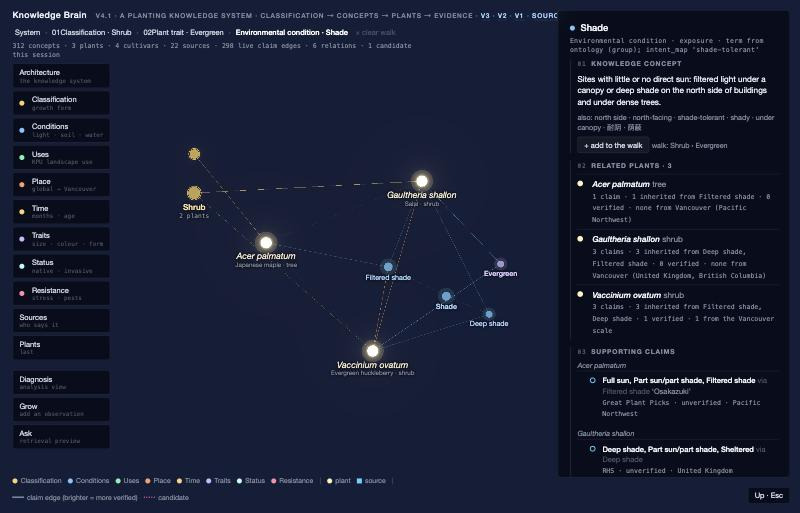
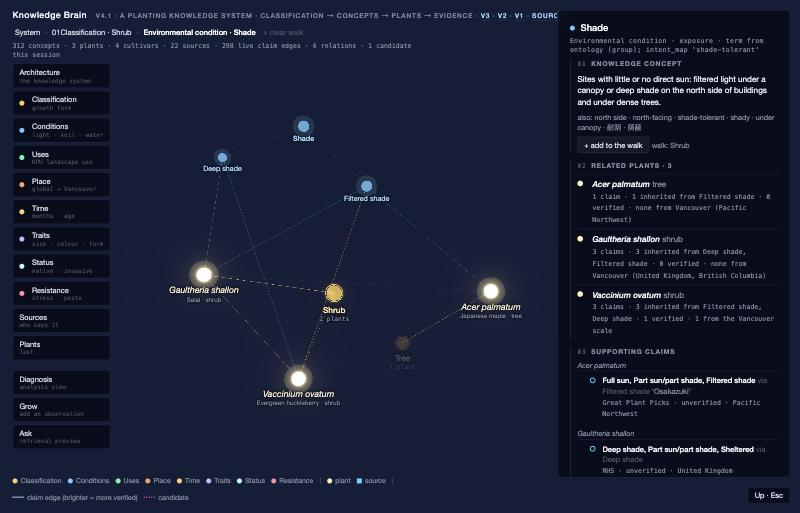
Brain v4.1: home as a free force constellation, not fixed columns
The three-column home read as a diagram. Growth forms, plants, concepts
and sources now share one force layout; a soft radial layer force keeps
the order readable (growth forms centre, plants, concepts by how many
plants they link, sources at the rim) and each dimension drifts toward
its own sector. No pinned coordinates; category nodes removed.
Screenshots and docs updated.

diff --git a/brain/js/app4.js b/brain/js/app4.js
@@ -59,21 +59,19 @@ function buildGraph() {
   const ring = {}; for (const c of G.concepts) if (!linked.has(c.id)) (ring[c.dimension] = ring[c.dimension] || []).push(c);
   const dims = KNOWLEDGE_DIMS; let start = 0; const total = Object.values(ring).reduce((a, v) => a + v.length, 0) + dims.length * 3; S.ringArcs = {};
   for (const d of dims) { const items = ring[d] || []; const span = (items.length + 3) / total * Math.PI * 2; const a0 = start; start += span; S.ringArcs[d] = [a0, a0 + span]; items.forEach((c, i) => { const a = a0 + (i + 1.5) / (items.length + 3) * span; nodes.push({ id: c.id, kind: 'concept', n: c, used: false, fx: Math.cos(a) * 300, fy: Math.sin(a) * 300 }); }); }
-  // growth forms: a fixed column on the left; knowledge-dimension category nodes: a fixed arc on the right
+  // growth forms are hubs near the centre of the force layout (no fixed positions: the layer force below keeps the layers readable)
   const gfs = G.concepts.filter(c => c.facet === 'growth_form').sort((a, b) => (a.order ?? 9) - (b.order ?? 9));
-  gfs.forEach((c, i) => nodes.push({ id: c.id, kind: 'concept', n: c, used: true, gf: true, fx: -200, fy: 115 - i * 46 }));
-  KNOWLEDGE_DIMS.forEach((d, i) => { nodes.push({ id: `cat:${d}`, kind: 'cat', dim: d, fx: 235, fy: 180 - i * 60 }); });
+  gfs.forEach((c, i) => { const a = i / gfs.length * Math.PI * 2; nodes.push({ id: c.id, kind: 'concept', n: c, used: true, gf: true, x: Math.cos(a) * 60, y: Math.sin(a) * 60 }); });
   for (const c of G.concepts) if (linked.has(c.id) && c.facet !== 'growth_form') nodes.push({ id: c.id, kind: 'concept', n: c, used: true });
   for (const c of G.concepts) if (linked.has(c.id) && c.parent && linked.has(c.parent)) links.push({ id: `parent:${c.id}`, kind: 'parent', source: c.id, target: c.parent });
   for (const cv of G.graph.nodes.filter(n => n.type === 'cultivar')) { nodes.push({ id: cv.id, kind: 'cultivar', n: cv }); links.push({ id: cv.id, kind: 'cv', source: cv.id, target: cv.plant }); }
-  const srcs = G.graph.nodes.filter(n => (n.type === 'source' || n.type === 'practitioner') && !n.parent); srcs.forEach((s, i) => nodes.push({ id: s.id, kind: 'source', n: s, fx: -((srcs.length - 1) / 2 - i) * 34, fy: -400 }));
-  if (S.candEdges.length) nodes.push({ id: 'source:candidate', kind: 'source', n: { id: 'source:candidate', label: 'you (candidate)', source_type: 'candidate' }, fx: (srcs.length / 2 + 1) * 34, fy: -400 });
+  const srcs = G.graph.nodes.filter(n => (n.type === 'source' || n.type === 'practitioner') && !n.parent); srcs.forEach((s, i) => { const a = Math.PI + (i + 0.5) / srcs.length * Math.PI; nodes.push({ id: s.id, kind: 'source', n: s, x: Math.cos(a) * 380, y: Math.sin(a) * 380 }); });
+  if (S.candEdges.length) nodes.push({ id: 'source:candidate', kind: 'source', n: { id: 'source:candidate', label: 'you (candidate)', source_type: 'candidate' }, x: 0, y: -380 });
   for (const e of allEdges()) {
     if (!isEvidence(e)) continue;
     const targets = []; if (e.target) targets.push(e.target); if (e.place) targets.push(e.place); for (const t of e.time || []) targets.push(t);
     for (const t of new Set(targets)) { const key = `${e.plant}→${t}`; if (!linkMap.has(key)) { const l = { id: key, kind: e.type === 'classification' ? 'gf' : 'pc', source: e.plant, target: t, edges: [] }; linkMap.set(key, l); links.push(l); } linkMap.get(key).edges.push(e); }
   }
-  for (const p of G.plants) for (const d of KNOWLEDGE_DIMS) { const n = new Set(plantEdges(p.id).flatMap(e => [e.target, e.place, ...(e.time || [])].filter(x => x && G.O.get(x)?.dimension === d))).size; if (n) links.push({ id: `cat:${p.id}:${d}`, kind: 'cat', source: p.id, target: `cat:${d}`, n }); }
   const relPairs = new Map();
   for (const e of G.graph.edges.filter(x => x.type === 'relation')) { const key = [e.source, e.target].sort().join('|'); if (!relPairs.has(key)) { const l = { id: `rel:${key}`, kind: 'rel', source: e.source, target: e.target, rels: [] }; relPairs.set(key, l); links.push(l); } relPairs.get(key).rels.push(e); }
   const prev = new Map(S.allNodes.map(n => [n.id, n]));
@@ -82,14 +80,39 @@ function buildGraph() {
   applyVisible();
   rebuildLabels();
 }
+// the layers of the system as a soft radial order, not fixed positions: growth forms at the centre, plants around them,
+// concepts outward (hubs linking all plants sit inside, single-plant concepts at the edge), sources at the rim; each
+// knowledge dimension is drawn toward its own sector so colour regions form. Everything still moves with the force layout.
+const SECTOR = {}; KNOWLEDGE_DIMS.forEach((d, i) => { SECTOR[d] = Math.PI / 2 - i / KNOWLEDGE_DIMS.length * Math.PI * 2; });
+function layerRadius(n) {
+  if (n.kind === 'concept' && n.gf) return linkedPlants(n.id).size ? 30 : 95;
+  if (n.kind === 'plant') return 125;
+  if (n.kind === 'cultivar') return 160;
+  if (n.kind === 'concept') { if (!n.used) return null; const k = linkedPlants(n.id).size; return k >= 3 ? 170 : k === 2 ? 240 : 305; }
+  if (n.kind === 'source') return 310;
+  return null;
+}
+function layerForce() {
+  let nodes = [];
+  const f = alpha => {
+    const K = S.layerK || 0; if (!K) return;
+    for (const n of nodes) {
+      if (n.fx !== undefined) continue; const r = layerRadius(n); if (r == null) continue;
+      const x = n.x || 0, y = n.y || 0; const d = Math.max(1, Math.hypot(x, y)); const k = (r - d) / d * alpha * (n.kind === 'plant' || n.gf ? 0.7 : n.kind === 'source' ? 1.4 : 0.35) * K; n.vx += x * k; n.vy += y * k;
+      if (n.kind === 'concept' && n.used && !n.gf) { const a = SECTOR[n.n.dimension]; if (a !== undefined) { n.vx += (Math.cos(a) * r - x) * alpha * 0.06 * K; n.vy += (Math.sin(a) * r - y) * alpha * 0.06 * K; } }
+    }
+  };
+  f.initialize = ns => { nodes = ns; }; return f;
+}
 function applyVisible() {
   const vis = S.visible; const nodes = vis ? S.allNodes.filter(n => vis.has(n.id)) : S.allNodes.filter(n => n.kind !== 'cat');
   const ids = new Set(nodes.map(n => n.id)); const links = S.allLinks.filter(l => ids.has(l.source.id || l.source) && ids.has(l.target.id || l.target));
   S.nodes = nodes; S.links = links;
   S.Graph.graphData({ nodes, links });
   const focused = !!vis && nodes.length < 90;   // a layer or a walk: fewer nodes, so give them room
-  const link = S.Graph.d3Force('link'); if (link) link.distance(l => l.kind === 'pc' ? (focused ? 95 : 34) : l.kind === 'rel' ? 150 : l.kind === 'parent' ? (focused ? 40 : 18) : l.kind === 'gf' ? 90 : l.kind === 'cat' ? 120 : 14).strength(l => l.kind === 'pc' ? (focused ? 0.3 : 0.5) : l.kind === 'rel' ? 0.05 : l.kind === 'parent' ? 0.7 : l.kind === 'gf' ? 0.25 : l.kind === 'cat' ? 0.08 : 1);
-  const charge = S.Graph.d3Force('charge'); if (charge) charge.strength(n => n.kind === 'plant' ? -900 : n.kind === 'concept' ? (n.used ? (focused ? -320 : -70) : -5) : n.kind === 'source' ? -10 : n.kind === 'cat' ? -200 : -30).distanceMax(420);
+  S.layerK = focused ? 0.4 : 1; S.focused = focused;
+  const link = S.Graph.d3Force('link'); if (link) link.distance(l => l.kind === 'pc' ? (focused ? 95 : 48) : l.kind === 'rel' ? 150 : l.kind === 'parent' ? (focused ? 40 : 18) : l.kind === 'gf' ? 90 : l.kind === 'cat' ? 120 : 14).strength(l => l.kind === 'pc' ? (focused ? 0.3 : 0.12) : l.kind === 'rel' ? 0.05 : l.kind === 'parent' ? 0.7 : l.kind === 'gf' ? 0.25 : l.kind === 'cat' ? 0.08 : 1);
+  const charge = S.Graph.d3Force('charge'); if (charge) charge.strength(n => n.kind === 'plant' ? -900 : n.kind === 'concept' ? (n.used ? (focused ? -320 : -90) : -5) : n.kind === 'source' ? -10 : n.kind === 'cat' ? -200 : -30).distanceMax(420);
 }
 
 // ------------------------------------------------------------------ host
@@ -103,6 +126,7 @@ function initHost() {
     .onLinkClick(l => { S.swallow = true; if (l.kind === 'pc' || l.kind === 'gf') go({ mode: 'link', plant: l.source.id || l.source, concept: l.target.id || l.target }); else if (l.kind === 'rel') go({ mode: 'relations', id: l.source.id || l.source }); else if (l.kind === 'cat') go({ mode: 'dim', dim: l.target.dim || String(l.target.id || l.target).split(':')[1] }); })
     .onBackgroundClick(() => { if (S.swallow) { S.swallow = false; return; } up(); });
   Graph.controls().enableRotate = false;
+  Graph.d3Force('layer', layerForce());
   Graph.onEngineStop(() => { if (performance.now() - (S.goAt || 0) < 8000 && !S.userMoved) moveCamera(700); });   // re-fit once the layout has settled, unless the user has moved on
   Graph.controls().addEventListener('start', () => { S.userMoved = true; });
   Graph.scene().fog = new THREE.FogExp2(0x02030a, 0.0009);
@@ -163,7 +187,7 @@ function frame() {
     const r = n.kind === 'plant' ? 8 : n.kind === 'concept' ? conceptRadius(n) + 0.5 : n.kind === 'cat' ? 10 : 4;
     _v.set(n.x, (n.y || 0) - r - 1.5 - L.dy, 0); _v.project(cam);
     const f = dimFactor(n.id); let show = true;
-    if (n.kind === 'concept' && !n.gf) { const k = linkedPlants(n.id).size; show = S.lit ? S.lit.has(n.id) : (S.visible ? true : (k >= 3 || (k >= 2 && zoom < 520) || zoom < 330)); }
+    if (n.kind === 'concept' && !n.gf) { const k = linkedPlants(n.id).size; show = S.lit ? S.lit.has(n.id) : (S.focused ? true : (k >= 3 || (k >= 2 && zoom < 620) || zoom < 380)); }
     if (n.kind === 'source') show = S.lit ? S.lit.has(n.id) : (zoom < 520 || S.view.mode === 'sources');
     if (S.lit && !S.lit.has(n.id) && !L.fixed && !n.gf) show = false;   // the classification layer stays readable, muted
     if (!show || _v.z > 1) { L.el.classList.add('hidden'); continue; }
@@ -195,7 +219,6 @@ document.addEventListener('pointermove', e => { if (tip.style.display !== 'none'
 
 // ------------------------------------------------------------------ views: visibility is the layer the user has opened; lit is the focus inside it
 const gfIds = () => S.G.concepts.filter(c => c.facet === 'growth_form').map(c => c.id);
-const catIds = () => KNOWLEDGE_DIMS.map(d => `cat:${d}`);
 function sharedConcepts(plants, perDim = 6) {
   const out = {}; if (!plants.length) return out;
   const counts = new Map(); for (const p of plants) for (const e of plantEdges(p)) for (const t of [e.target, e.place, ...(e.time || [])].filter(Boolean)) { if (!counts.has(t)) counts.set(t, new Set()); counts.get(t).add(p); }
@@ -208,9 +231,9 @@ function go(view, silent = false) {
   S.view = view; S.litLinks = null; S.goAt = performance.now(); const G = S.G;
   let vis = null, lit = null;
   const withGf = ps => ps.flatMap(p => [p, growthFormOf(p)].filter(Boolean));
-  if (view.mode === 'home') { vis = new Set([...G.plants.map(p => p.id), ...gfIds(), ...catIds()]); }
+  if (view.mode === 'home') { vis = new Set(S.allNodes.filter(n => n.kind === 'plant' || n.kind === 'source' || n.kind === 'cultivar' || (n.kind === 'concept' && n.used)).map(n => n.id)); }
   else if (view.mode === 'diagnosis' || view.mode === 'list') { vis = null; }
-  else if (view.mode === 'gf') { const ps = [...linkedPlants(view.id)]; const shared = sharedConcepts(ps); vis = new Set([view.id, ...gfIds(), ...withGf(ps), ...catIds(), ...Object.values(shared).flat()]); lit = new Set([view.id, ...ps, ...Object.values(shared).flat()]); S.active = [view.id, ...S.active.filter(c => G.O.get(c)?.facet !== 'growth_form')]; }
+  else if (view.mode === 'gf') { const ps = [...linkedPlants(view.id)]; const shared = sharedConcepts(ps); vis = new Set([view.id, ...gfIds(), ...withGf(ps), ...Object.values(shared).flat()]); lit = new Set([view.id, ...ps, ...Object.values(shared).flat()]); S.active = [view.id, ...S.active.filter(c => G.O.get(c)?.facet !== 'growth_form')]; }
   else if (view.mode === 'dim') { const cs = S.allNodes.filter(n => n.kind === 'concept' && n.n.dimension === view.dim && (n.used || view.dim === 'classification')).map(n => n.id); const ps = new Set(); for (const c of cs) for (const p of linkedPlants(c)) ps.add(p); vis = new Set([...cs, ...withGf([...ps])]); lit = new Set([...cs, ...ps]); }
   else if (view.mode === 'sources') { vis = new Set([...S.allNodes.filter(n => n.kind === 'source' || n.kind === 'plant').map(n => n.id), ...gfIds()]); lit = new Set(S.allNodes.filter(n => n.kind === 'source' || n.kind === 'plant').map(n => n.id)); }
   else if (view.mode === 'plants') { vis = new Set([...G.plants.map(p => p.id), ...gfIds(), ...S.allNodes.filter(n => n.kind === 'cultivar').map(n => n.id)]); lit = new Set([...G.plants.map(p => p.id), ...gfIds()]); }
@@ -221,7 +244,6 @@ function go(view, silent = false) {
   else if (view.mode === 'variation' || view.mode === 'disagreement') { const set = new Set([view.plant]); for (const e of plantEdges(view.plant)) if (e.facet === view.facet) set.add(e.target); vis = new Set([...set, growthFormOf(view.plant)].filter(Boolean)); lit = set; }
   else if (view.mode === 'link') { vis = new Set([view.plant, view.concept, growthFormOf(view.plant)].filter(Boolean)); lit = new Set([view.plant, view.concept]); }
   else if (view.mode === 'relations') { vis = new Set([...G.plants.map(p => p.id), ...gfIds()]); lit = new Set(G.plants.map(p => p.id)); }
-  for (const n of S.allNodes) if (n.kind === 'plant') { if (view.mode === 'home') n.fx = 15; else delete n.fx; }   // home reads as three columns: growth forms · plants · dimensions
   S.visible = vis; S.lit = lit; S.userMoved = false; applyVisible(); applyDim(); renderTrail(); renderPanel(); moveCamera(1100); scheduleFits();
   document.querySelectorAll('#rail button[data-view]').forEach(b => b.classList.toggle('on', b.dataset.view === (view.mode === 'dim' ? view.dim : (view.mode === 'gf' || view.mode === 'set' || view.mode === 'concept') ? '' : view.mode)));
 }
@@ -255,7 +277,7 @@ function moveCamera(ms) {
   const v = S.view;
   if (v.mode === 'diagnosis' || v.mode === 'list') { fitNodes(new Set(S.nodes.filter(n => n.kind !== 'source' && !(n.kind === 'concept' && !n.used)).map(n => n.id)), ms, 60); return; }
   if (v.mode === 'sources') { fitNodes(new Set(S.nodes.filter(n => n.kind === 'source' || n.kind === 'plant').map(n => n.id)), ms, 40); return; }
-  const ids = S.visible ? new Set(S.visible) : null; fitNodes(ids, ms, v.mode === 'home' ? 70 : 44);
+  const ids = S.visible ? new Set(S.visible) : null; fitNodes(ids, ms, v.mode === 'home' ? 24 : 44);
 }
 
 // ------------------------------------------------------------------ trail (the walk) & panel

diff --git a/report-2026-10-31b.md b/report-2026-10-31b.md
@@ -48,7 +48,7 @@ Not done: Evergreen ∩ Hedge gives two plants, not one (the data, not the demo)
 
 **Data.** `ontology.json` gains a `classification` dimension with one facet, `growth_form` (Tree · Shrub · Graminoid · Herbaceous perennial · Fern · Vine or climber; 312 nodes now). `tools/build_graph.py` reads each plant's growth form from its sources (M29) and writes a `classification` edge per plant with the evidence and a status: *Acer* → tree **supported**, *Gaultheria* → shrub **supported**, *Vaccinium* → shrub **to confirm** (RHS "mixed shrub border" is a use mention; the only other voice is the survey). Growth form is excluded from the gate-facet gap rule, so the diagnosis counts are unchanged (44 · 1 · 14 · 3 + 2 + 98 · 93). `schema.json` is untouched; the migration re-ran with 0 unmapped; graph.json is regenerated, not hand-edited.
 
-**Brain v4.1** (`brain/js/app4.js`, `brain/index.html`). Home is the architecture: growth forms as a fixed column on the left, the three plants in the middle, the seven knowledge dimensions as category nodes on the right; the panel reads the system in four layers (01 Classification with the plants in each class and the "to confirm" tag · 02 Knowledge dimensions · 03 Plants · 04 Evidence). The Diagnosis moved to the rail as an analysis view with the full constellation. Expansion is layer by layer: a growth form opens the plants in that class and the concepts they all share, grouped by dimension; a concept opens in four layers — Knowledge concept · Related plants (claims, direct vs inherited, verified, from the Vancouver scale) · Supporting claims · Sources & conditions. The trail numbers the walk with each step's role; up to four steps; a growth form may be the first. Grow and Ask are unchanged in logic; Ask now draws the retrieval along the same layers (concepts by dimension → plants after gates → evidence edges → sources).
+**Brain v4.1** (`brain/js/app4.js`, `brain/index.html`). Home is the architecture, drawn as one free force constellation (a first cut with three fixed columns read as a diagram and was dropped the same day): growth forms as gold hubs at the centre, plants around them, concepts outward by how many plants they link, each dimension pulled toward its own sector, sources at the rim — a soft radial force, no pinned coordinates; the panel reads the system in four layers (01 Classification with the plants in each class and the "to confirm" tag · 02 Knowledge dimensions · 03 Plants · 04 Evidence). The Diagnosis moved to the rail as an analysis view with the full constellation. Expansion is layer by layer: a growth form opens the plants in that class and the concepts they all share, grouped by dimension; a concept opens in four layers — Knowledge concept · Related plants (claims, direct vs inherited, verified, from the Vancouver scale) · Supporting claims · Sources & conditions. The trail numbers the walk with each step's role; up to four steps; a growth form may be the first. Grow and Ask are unchanged in logic; Ask now draws the retrieval along the same layers (concepts by dimension → plants after gates → evidence edges → sources).
 
 **Acceptance walk** (`brain/WALKTHROUGH.md`, screenshots `brain/screenshots/v41/`): 01 Classification · Shrub (2 plants) → 02 Plant trait · Evergreen (both) → 03 Environmental condition · Shade (both, every claim inherited from Filtered or Deep shade; salal's from the UK and British Columbia, none from Vancouver; huckleberry's one verified survey claim from Metro Vancouver) → 04 Evidence & context · Metro Vancouver → 2 plants satisfy the walk, *Acer* falls away.
 

diff --git a/brain/README.md b/brain/README.md
@@ -22,7 +22,7 @@ Files: `index.html` · `js/app4.js` (views, panels, Grow, Ask) · `js/graph.js` 
 
 ## Opening view: the architecture
 
-Home draws three fixed columns — growth forms on the left, plants in the middle, the seven knowledge dimensions on the right — and the panel reads the system in four numbered layers: the classes and which plants sit in each (with the "to confirm" tag), the dimensions with how many concepts are in use, the plants with their form and edge count, and a note on evidence. Click a growth form to open its plants and the concepts they all share (grouped by dimension); click a dimension to open its facets; click a concept to continue. The trail at the top numbers the walk with each step's role (*01 Classification · Shrub › 02 Plant trait · Evergreen › 03 Environmental condition · Shade › 04 Evidence & context · Metro Vancouver*), up to four steps, a growth form allowed as the first.
+Home draws the whole knowledge graph as one force-directed constellation (nothing is pinned; the look follows Obsidian-style graph views rather than a diagram): the growth forms are gold hubs at the centre, the plants orbit them, concepts spread outward — hubs that link every plant sit inside, single-plant concepts at the edge — and each dimension drifts toward its own sector so colour regions form; the sources sit at the rim. The order is a *soft radial force* (`layerForce` in `app4.js`), so the structure is readable without being drawn as rows. The panel reads the same system in four numbered layers: the classes and which plants sit in each (with the "to confirm" tag), the dimensions with how many concepts are in use, the plants with their form and edge count, and a note on evidence. Click a growth form to open its plants and the concepts they all share (grouped by dimension); click a dimension to open its facets; click a concept to continue. The trail at the top numbers the walk with each step's role (*01 Classification · Shrub › 02 Plant trait · Evergreen › 03 Environmental condition · Shade › 04 Evidence & context · Metro Vancouver*), up to four steps, a growth form allowed as the first.
 
 ## Diagnosis: an analysis view
 
@@ -68,6 +68,7 @@ A question activates concept nodes first, by alias (the same words the intent ma
 - **Classification layer**: `growth_form` facet in the ontology (dimension `classification`), classification edges with evidence and status from `tools/build_graph.py` (M29). `schema.json` untouched; migration re-run, 0 unmapped; graph regenerated.
 - **Home**: the architecture in four layers instead of the diagnosis; Diagnosis on the rail as an analysis view.
 - **Layered expansion**: each view draws only the layer opened (growth forms always drawn, muted when not in focus); the camera re-fits while the layout settles and stops as soon as you pan or zoom.
+- **Layout**: a first cut drew growth forms, plants and dimensions as three fixed columns; Kay read it as a diagram, not a knowledge graph, so the home went back to a free force layout with a soft radial order per layer and sector pull per dimension (the structure is in the forces, not in pinned coordinates).
 - **Concept panel** in the order Knowledge concept → Related plants → Supporting claims → Sources & conditions; the trail names each step's role.
 - **Kept**: Grow and Ask logic, the retrieval port, v1–v3 archives.
 

diff --git a/brain/WALKTHROUGH.md b/brain/WALKTHROUGH.md
@@ -2,7 +2,7 @@
 
 Open <https://kaiyankay.github.io/planting-db/brain/> (or serve the planting-db root and open `/brain/`). Everything below was run in the built-in browser on 2026-10-31 at 1280 × 820; screenshots are in `screenshots/v41/`. The v4 walk (Conditions → Shade → salal → height variation) still runs unchanged; its screenshots stay in `screenshots/v4/`.
 
-**0:00 — the architecture** (`01-architecture-home.jpg`). Three columns: the six growth forms on the left (*Tree · 1 plant*, *Shrub · 2 plants*, four classes with *no plant yet*), the three plants in the middle, the seven knowledge dimensions on the right (*Conditions · 23 concepts in use* … *Resistance · 19*). The panel reads the system in four layers: 01 Classification (Tree: *Acer palmatum*; Shrub: *Gaultheria shallon*, *Vaccinium ovatum* · 1 to confirm), 02 Knowledge dimensions (23 of 53 condition concepts in use, 18 of 60 uses, 10 of 10 places …), 03 Plants with their form and edge count, 04 Evidence. Nothing here is hand-written: the classes come from `ontology.json`, the membership from `tools/build_graph.py` (M29).
+**0:00 — the architecture** (`01-architecture-home.jpg`). One constellation, nothing pinned: the growth forms are the gold hubs at the centre (*Tree · 1 plant*, *Shrub · 2 plants*; the four empty classes float nearby with *no plant yet*), the three plants orbit them, the concepts spread outward in dimension colours — the hubs that link all three plants close in, single-plant concepts at the edge — and the 22 sources sit at the rim. The panel reads the system in four layers: 01 Classification (Tree: *Acer palmatum*; Shrub: *Gaultheria shallon*, *Vaccinium ovatum* · 1 to confirm), 02 Knowledge dimensions (23 of 53 condition concepts in use, 18 of 60 uses, 10 of 10 places …), 03 Plants with their form and edge count, 04 Evidence. Nothing here is hand-written: the classes come from `ontology.json`, the membership from `tools/build_graph.py` (M29).
 
 ## 1 · 01 Classification · Shrub (`02-classification-shrub.jpg`)
 
